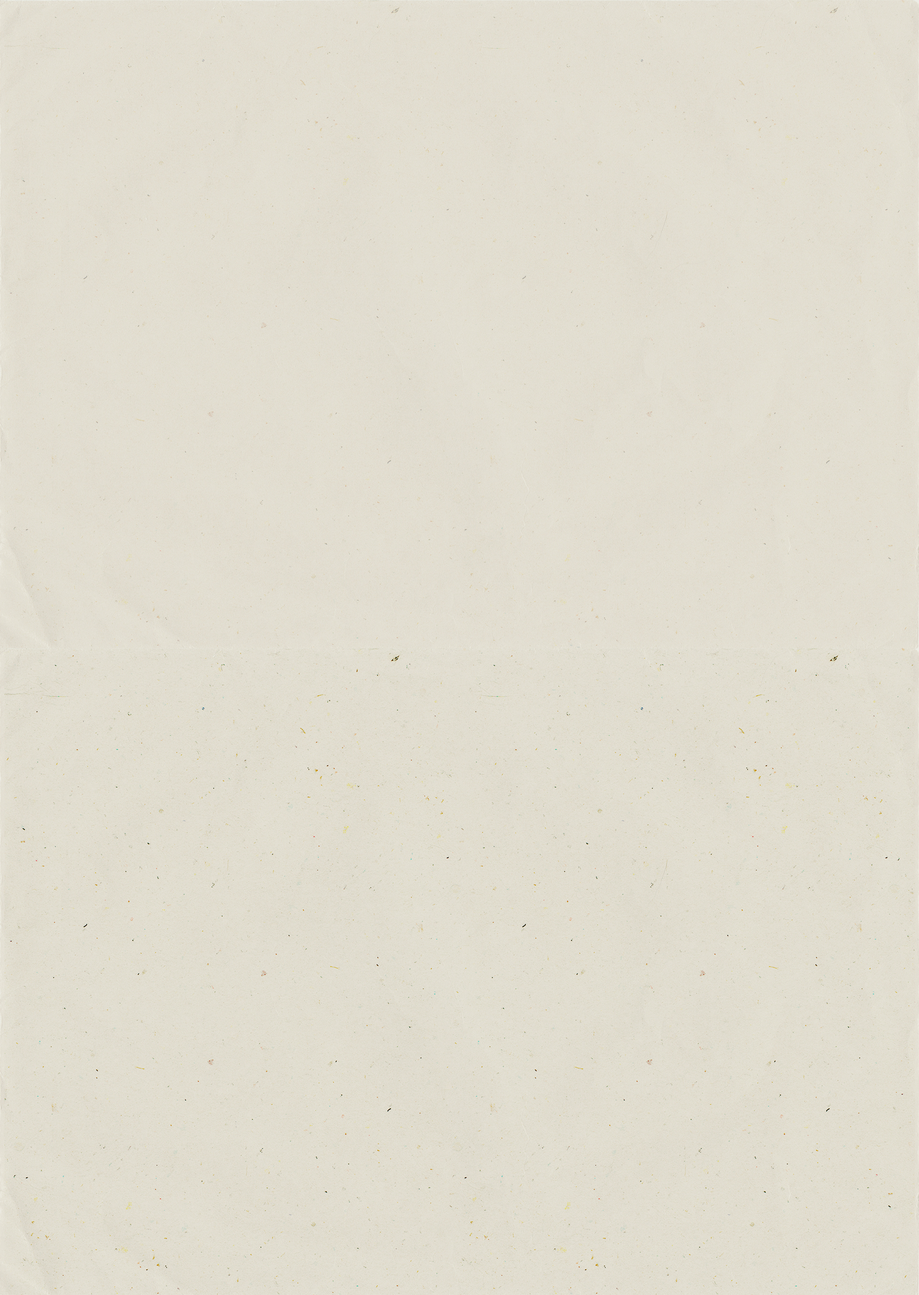
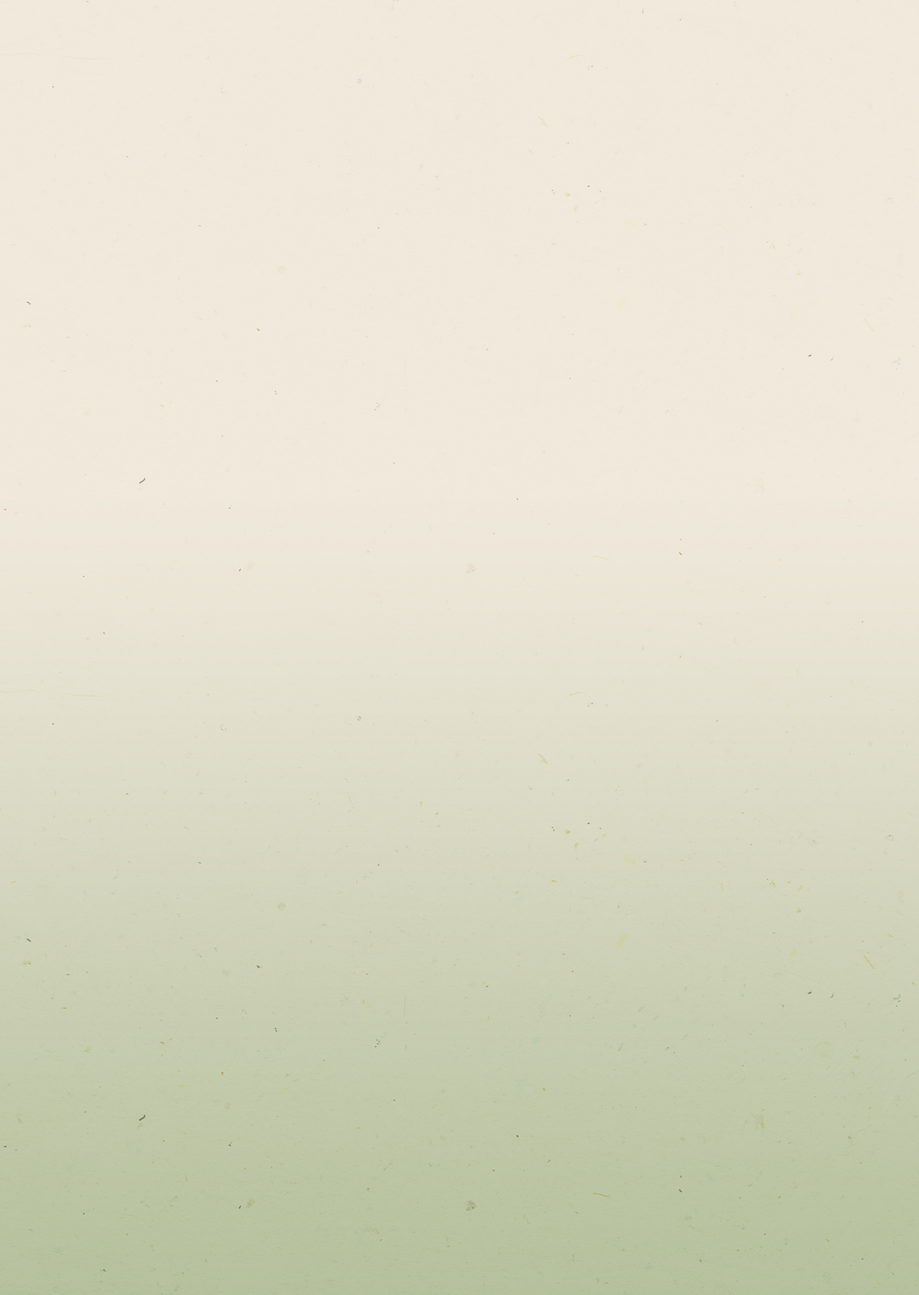
Hintergrund

Changed region(s): [[0.0, 0.6832, 1.0, 1.0]]

diff --git a/impressum.html b/impressum.html
@@ -139,6 +139,12 @@
                 Gewerbliche Schutzrechte/Geistiges Eigentum
 
                 Alle Namen, Marken und Logos, die auf unseren Webseiten verwendet werden, sind Eigentum von Creative Food and Beverage Company AG oder einem Tochterunternehmen oder werden berechtigt verwendet. Die Marken, die im Eigentum Dritter stehen, werden ausdrücklich als solche gekennzeichnet. Creative Food and Beverage Company AG beansprucht keine eigenen Rechte an solchen Marken. </p>
+                <br>
+                <br>
+                <br>
+                <br>
+                <br>
+                <br>
             </div>
           </div>
       </section>

diff --git a/css/styles.css b/css/styles.css
@@ -9,8 +9,10 @@ body {
   padding: 0;
   margin: 0;
   height: 100%;
-  background-image: linear-gradient(to top, #b7c19f 0%, #dddbcb 100%);
-  background-repeat: no-repeat
+  /*background-image: linear-gradient(to top, #b7c19f 0%, #dddbcb 100%);*/
+  background-image: url(../img/img_herbtie_papier_hg.jpg);
+  background-repeat: no-repeat;
+  background-size: cover;
 }
 
 
